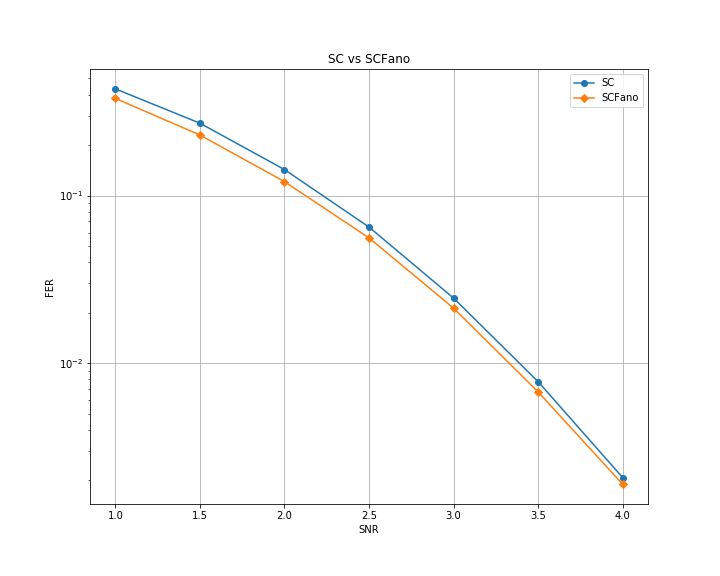
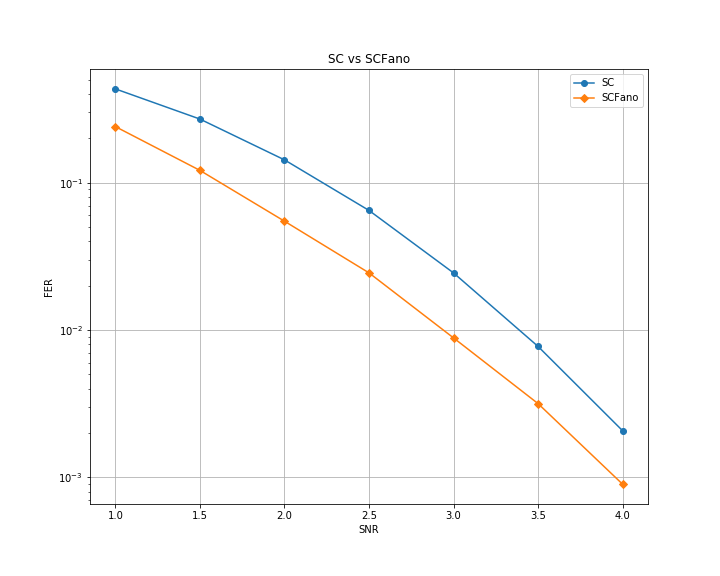
Have won fano decoder

diff --git a/src/ScFanoDecoder.cpp b/src/ScFanoDecoder.cpp
@@ -173,44 +173,32 @@ void UpdateT(double & T, double & delta, double & tau) {
 		T += delta;
 }
 
-void BackwardMove(std::vector<double> & beta, std::vector<bool> & gamma, std::vector<int> & mask, int & i, double & T, double & delta, bool & B, size_t & firstInfoBit) {
+void BackwardMove(std::vector<double> & beta, std::vector<bool> & gamma, std::vector<int> & mask, int & i, double & T, double & delta, bool & B, int & j) {
 
 	while (true) {
-
-		if (i == firstInfoBit) {
-			B = false;
-			T = T - delta;
-			return;
-		}
-
 		double mu = 0;
-		// Find the previous info bit
-		int j = i;
-		j--;
-		while (!mask[j])
-			j--;
 
-		if (j != 0) {
+		if (j <= -1)
+			mu = -1000;
+
+		if (j >= 1)
 			mu = beta[j - 1];
-		}
 
 		if (mu >= T) {
-			i = j;
-
-			if (!gamma[i]) {
+			j--;
+			if (!gamma[j + 1])
+			{
 				B = true;
 				return;
 			}
 		}
 		else {
+			T -= delta;
 			B = false;
-			T = T - delta;
 			return;
 		}
+			
 	}
-
-	return;
-
 }
 
 std::vector<int> ScFanoDecoder::Decode(std::vector<double> inP1) {
@@ -230,9 +218,12 @@ std::vector<int> ScFanoDecoder::Decode(std::vector<double> inP1) {
 	}
 
 	int i = 0;
+	int j = -1;
 	bool B = false;
-	std::vector<double> beta(n, 0.0);
-	std::vector<bool> gamma(n, 0);
+	std::vector<double> beta(k, 0.0); // only for frozen bits
+	std::vector<double> metrics(n, 0); // for all bits
+	std::vector<bool> gamma(k, 0);
+	std::vector<int> A = _codePtr->UnfrozenBits(); // info set
 	double T = _T;
 	double delta = _delta;
 
@@ -247,13 +238,12 @@ std::vector<int> ScFanoDecoder::Decode(std::vector<double> inP1) {
 	while (i < n)
 	{
 		PassDown(i); // get p1 metric in _beliefTree[m][i]
+		double p0 = 1 - _beliefTree[m][i];
+		double p1 = _beliefTree[m][i];
+		
 		if (_mask[i]) {
-
-			double p0 = 1 - _beliefTree[m][i];
-			double previous = (i == 0) ? 0 : beta[i - 1];
+			double previous = (i == 0) ? 0 : metrics[i - 1];
 			double m0 = previous + log(p0 / (1 - p[i]));
-
-			double p1 = _beliefTree[m][i];
 			double m1 = previous + log(p1 / (1 - p[i]));
 
 			double max = (m1 > m0) ? m1 : m0 ;
@@ -267,80 +257,82 @@ std::vector<int> ScFanoDecoder::Decode(std::vector<double> inP1) {
 					_x[i] = argmax;
 					_uhatTree[m][i] = _x[i];
 					PassUp(i);
-					beta[i] = max;
-					gamma[i] = false;
+
+					metrics[i] = max;
+					beta[j + 1] = max;
+					gamma[j + 1] = false;
 
 					double mu = 0;
-					if (i != 0) {
-					//if (i != firstInfoBit) {
-						/*int previousInfoBit = i;
-						previousInfoBit--;
-						while (!_mask[previousInfoBit])
-							previousInfoBit--;*/
-						mu = beta[i-1];
-					}
+					if (j != -1) 
+						mu = beta[j];
 
 					if (mu < T + delta) 
-						UpdateT(T, delta, beta[i]);
+						UpdateT(T, delta, beta[j+1]);
 					i++;
+					j++;
 				}
 				else {
 					if (min > T) {
 						_x[i] = argmin;
 						_uhatTree[m][i] = _x[i];
 						PassUp(i);
-						beta[i] = min;
-						gamma[i] = true;
+
+						metrics[i] = min;
+						beta[j + 1] = min;
+						gamma[j + 1] = true;
 						B = false;
+
 						i++;
+						j++;
 					}
 					else {
-						if (i == firstInfoBit) {
+						if (j == -1) {
 							T = T - delta;
 							B = false;
 						}
 						else {
-							BackwardMove(beta, gamma, _mask, i, T, delta, B, firstInfoBit);
+							BackwardMove(beta, gamma, _mask, i, T, delta, B, j);
+							i = A[j + 1];
 						}
 					}
 				}
 			}
 			else {
-				if (i == firstInfoBit) {
+				if (j == -1)
 					T = T - delta;
+
+				else {
+					BackwardMove(beta, gamma, _mask, i, T, delta, B, j);
+					i = A[j + 1];
 				}
-				else
-					BackwardMove(beta, gamma, _mask, i, T, delta, B, firstInfoBit);
+					
 			}
 		}
 		else {
-			_x[i] = 0;
+			_x[i] = FROZEN_VALUE;
 			_uhatTree[m][i] = _x[i];
 			PassUp(i);
-			if (i != 0) {
-				beta[i] = beta[i - 1];
-				gamma[i] = gamma[i - 1];
-			}
-			else {
-				beta[i] = 0;
-				gamma[i] = 0;
-			}
-				
-			
+
+			double currentMetric = log(p0) - log(1 - p[i]);
+			// cumulative
+			metrics[i] = currentMetric;
+			if (i != 0)
+				metrics[i] += metrics[i - 1];
+
 			i++;
 		}
 	}
 	
 	// Get info bits
 	std::vector<int> result(k, 0);
-	size_t j = 0;
+	size_t l = 0;
 	for (size_t i = 0; i < n; i++)
 	{
 		if (_mask[i] == 0)
 			continue;
 
-		result[j] = _x[i];
-		j++;
+		result[l] = _x[i];
+		l++;
 	}
 
 	return result;

diff --git a/src/PolarCode.cpp b/src/PolarCode.cpp
@@ -1,6 +1,6 @@
 #include "../include/PolarCode.h"
 #include "../include/Exceptions.h"
-
+#include <algorithm>
 PolarCode::PolarCode() {
 
 }
@@ -13,10 +13,14 @@ PolarCode::PolarCode(int m, int k, std::vector<int> reliabilitySequence) {
 		throw IncorrectSequenceSizeException("Sequence length does not match with code length");
 
 	_bitsMask = std::vector<int>(_N, 0);
-	for (size_t i = sequenceLength - k; i < sequenceLength; i++)
+	_unfrozenBits = std::vector<int>(k, 0);
+	int j = 0;
+	for (size_t i = sequenceLength - k; i < sequenceLength; i++, j++)
 	{
 		_bitsMask[reliabilitySequence[i]] = 1;
+		_unfrozenBits[j] = reliabilitySequence[i];
 	}
+	sort(_unfrozenBits.begin(), _unfrozenBits.end());
 }
 
 size_t PolarCode::m() {
@@ -30,4 +34,8 @@ size_t PolarCode::k() {
 }
 std::vector<int> PolarCode::BitsMask() {
 	return _bitsMask;
+}
+
+std::vector<int> PolarCode::UnfrozenBits() {
+	return _unfrozenBits;
 }

diff --git a/src/MonteCarloSimulator.cpp b/src/MonteCarloSimulator.cpp
@@ -77,10 +77,6 @@ SimulationIterationResults MonteCarloSimulator::Run(double snr)
 				beliefs[i] = LlrToP1(beliefs[i]);
 			}
 		}
-		
-		//beliefs = { 0.0037797778435317330 , 0.37351998021616545 , 0.29295513051231054 , 0.94634988513096230 ,
-			//0.10720504223171166, 0.090606999867382465, 0.0076651897316822567, 0.25121546230851954 };
-		// beliefs = { 0.56908250371344349, 0.77123177444132707, 0.40779883857703486, 0.29787121467476890 };
 		decoded = _decoderPtr->Decode(beliefs);
 		if (decoded != word)
 			wrong_dec += 1;

diff --git a/include/PolarCode.h b/include/PolarCode.h
@@ -8,6 +8,7 @@ protected:
 	size_t _N = 0;
 	size_t _k = 0;
 	std::vector<int> _bitsMask;
+	std::vector<int> _unfrozenBits;
 
 public:
 	PolarCode();
@@ -17,6 +18,7 @@ public:
 	size_t N();
 	size_t k();
 	std::vector<int> BitsMask();
+	std::vector<int> UnfrozenBits();
 
 	~PolarCode() {};
 };

diff --git a/src/gaTe.cpp b/src/gaTe.cpp
@@ -57,7 +57,7 @@ std::vector<int> SortProb1(std::vector<double> p) {
 	return indices;
 }
 
-int main1(int argc, char* argv[]) {
+int main2(int argc, char* argv[]) {
 
 	int n = 16;
 	GaussianApproximation ga(1);
